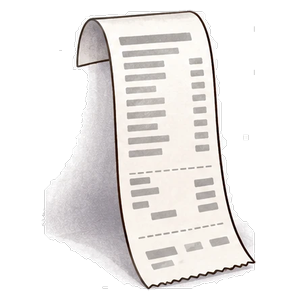
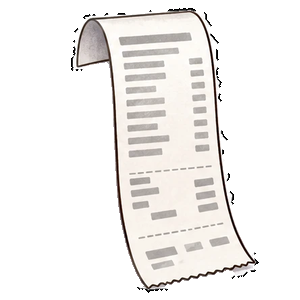
Тренажёр: Prepare 4, receipt по контуру без нарисованной тени
Claude-Session: https://claude.ai/code/session_01TVzVUEdGkYTyD8nN3ioNLY

diff --git a/tools/vocab-images/p4/cut.py b/tools/vocab-images/p4/cut.py
@@ -6,7 +6,7 @@ import sys, os
 import numpy as np
 from PIL import Image
 sys.path.insert(0, '..')
-from lib import row, row_x, clusters_of, min_rgb_of
+from lib import row, row_x, clusters_of, min_rgb_of, fname
 from sheets import S
 
 # Сцены с белым содержимым (лёд, снег): фон вырезается вместе с ним — заливаем сцену целиком
@@ -81,6 +81,22 @@ def erase_glued_captions(path):
     out = '/tmp/claude-0/-home-user-classroom/d4a2a0a4-519c-5b81-af84-18451bfcf9dd/scratchpad/clean_' + os.path.basename(path) + '.png'
     Image.fromarray(arr).save(out); return out
 
+# Предметы с нарисованной мягкой тенью рядом: оставляем только то, что внутри контура
+OUTLINE_ONLY = {'receipt'}
+
+def outline_only(png):
+    from scipy.ndimage import binary_dilation, binary_erosion, binary_fill_holes
+    im = np.array(Image.open(png).convert('RGBA'))
+    dark = (im[..., :3].min(2) < 80) & (im[..., 3] > 0)
+    solid = binary_erosion(binary_fill_holes(binary_dilation(dark, iterations=3)), iterations=2)
+    from scipy.ndimage import label
+    lab, n = label(solid)
+    if n > 1:  # крапинки тени снаружи контура — отдельные мелкие куски
+        sizes = np.bincount(lab.ravel()); sizes[0] = 0
+        solid = lab == sizes.argmax()
+    im[..., 3] = np.where(solid, 255, 0).astype(np.uint8)
+    Image.fromarray(im).save(png)
+
 def cut(sheet, path, out='out'):
     path = erase_glued_captions(path)
     title, note, items = S[sheet - 1]
@@ -107,6 +123,9 @@ def cut(sheet, path, out='out'):
             cuts, ink = column_cuts(path, y0, y1, n)
             row_x(path, y0, y1, words, d, cuts)
             report.append(f'  ряд {y0}-{y1}: {n} шт, ПО КОЛОНКАМ {cuts} чернил {ink}')
+    for _, t, _ in items:
+        if t in OUTLINE_ONLY:
+            outline_only(f'{out}/{sheet}/{fname(t)}'); report.append(f'  {t}: по контуру')
     print(f'лист {sheet} {title}:'); print('\n'.join(report))
 
 if __name__ == '__main__':
